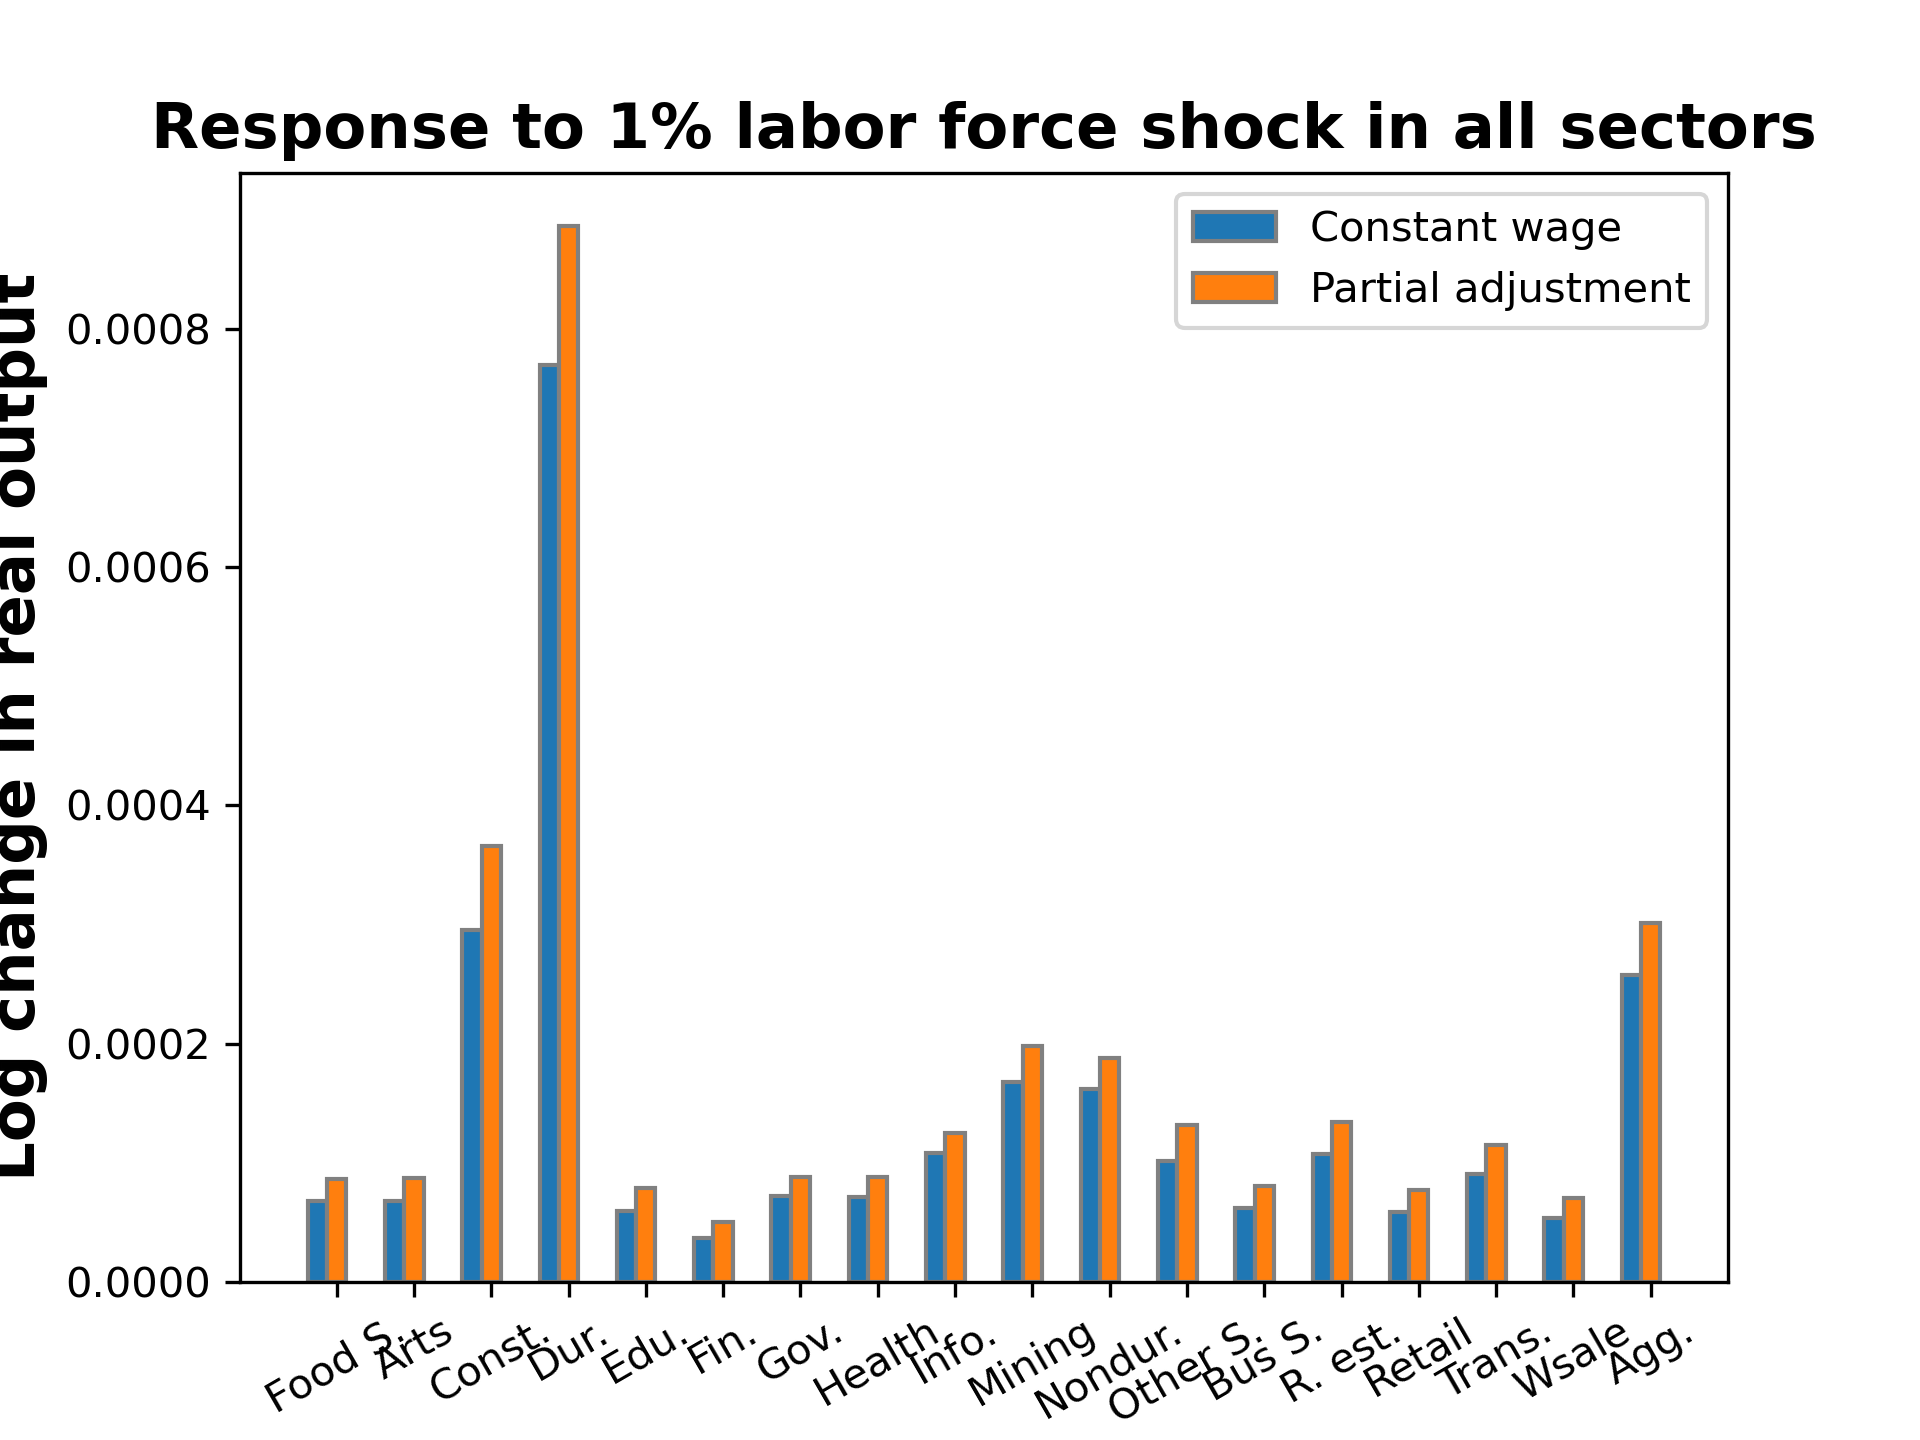
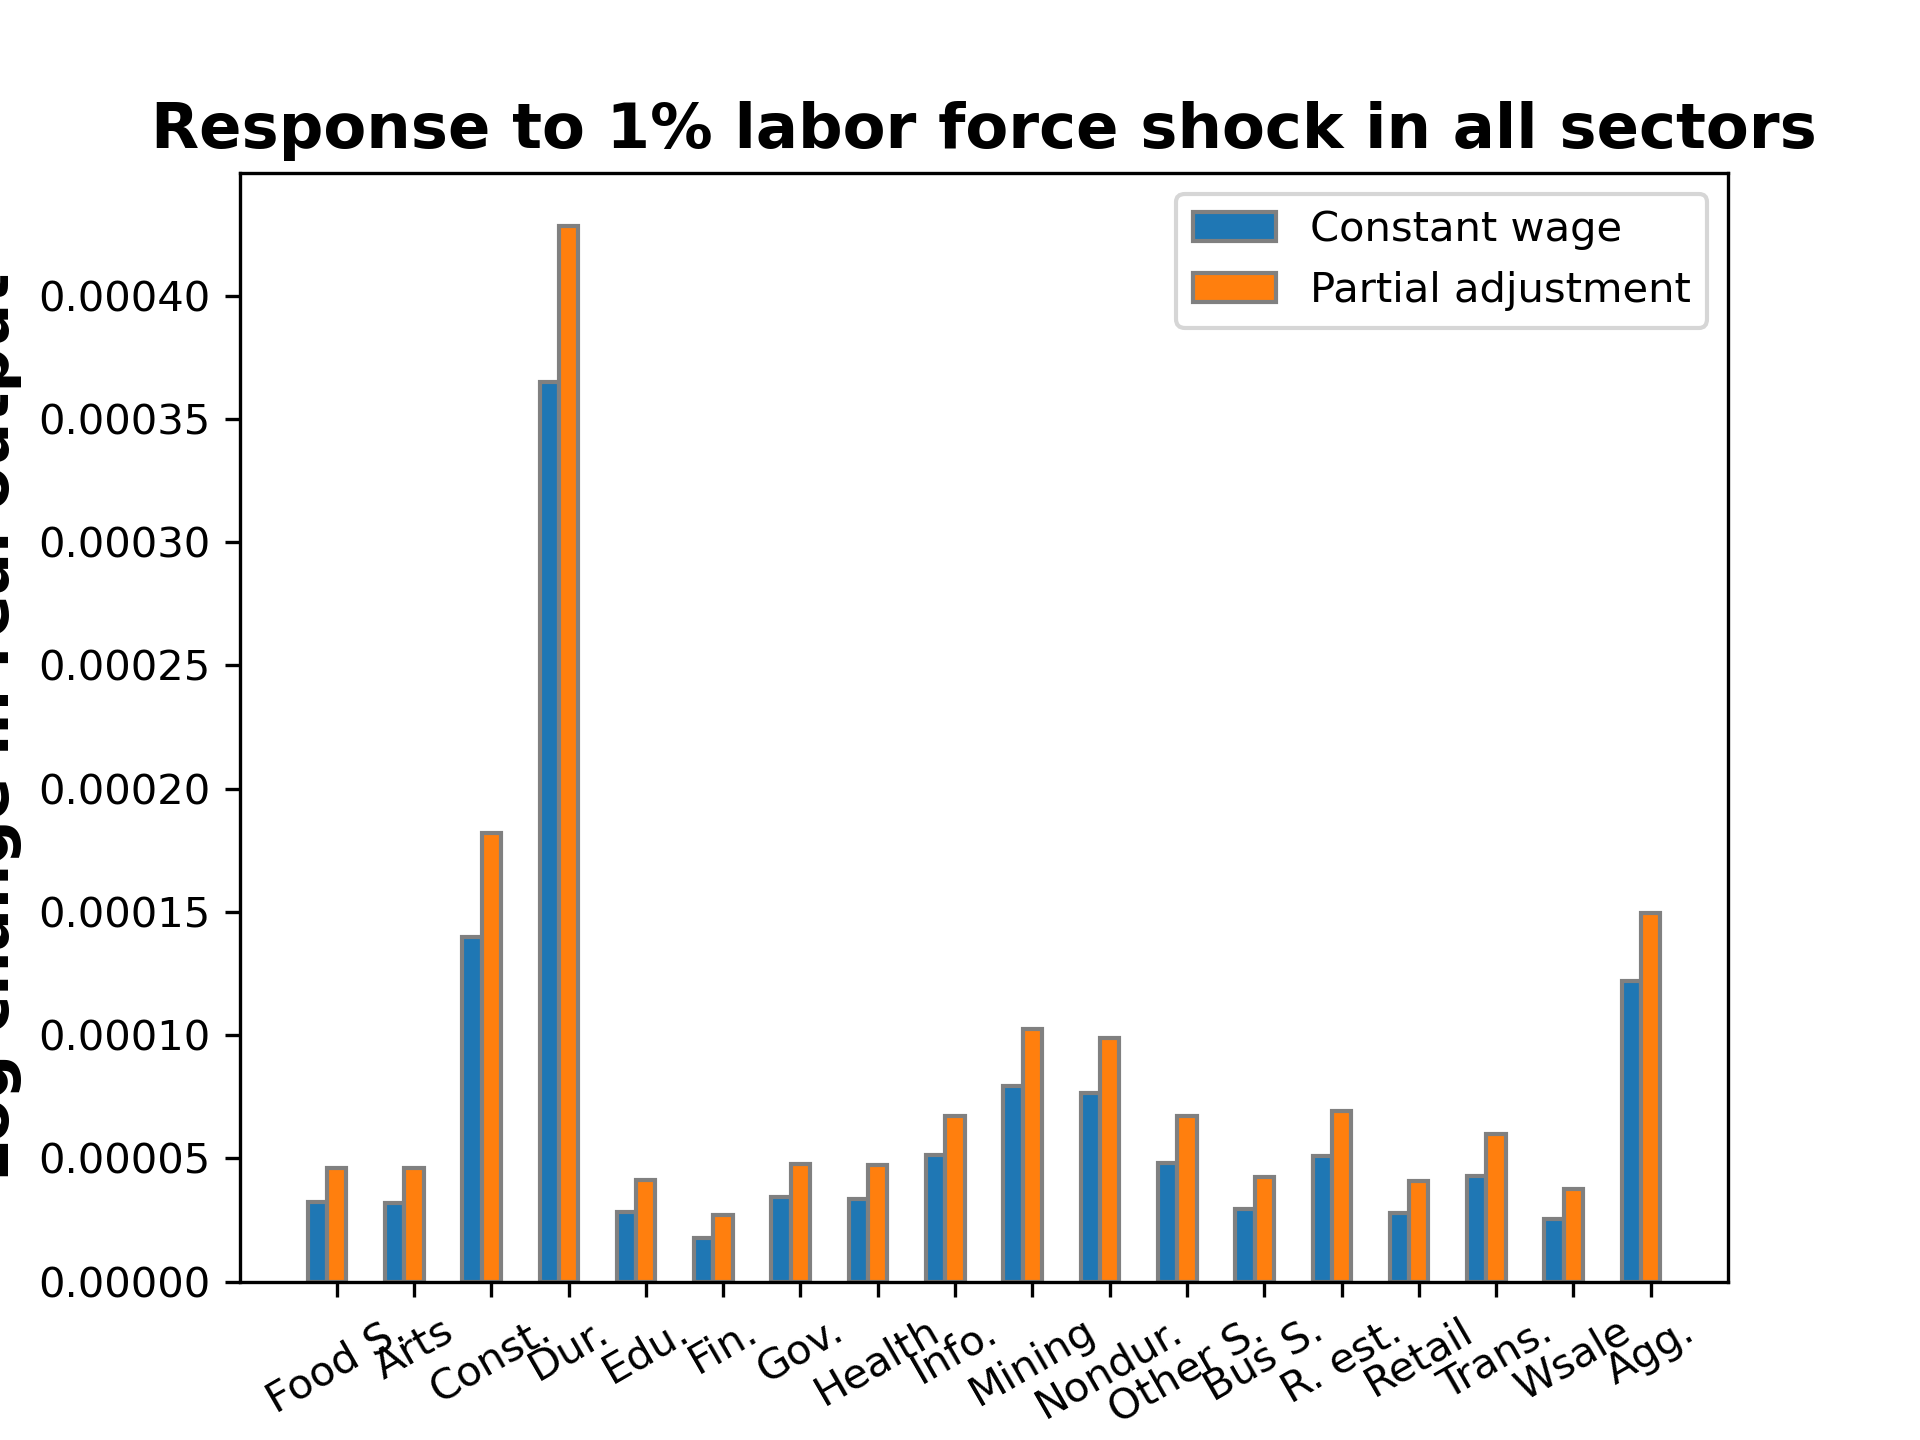
change to calib

diff --git a/new_code/main.py b/new_code/main.py
@@ -55,7 +55,7 @@ if __name__ == "__main__":
     elasticity_Qtheta = gen_elasticity_Qtheta_CD(theta,eta)
     curlyF = gen_curlyF_CD(theta,eta,phi,s)
     
-    r = r_calib(theta,eta,phi,s,L,0.032)
+    r = r_calib(theta,eta,phi,s,L,0.015) #Target percent of labor force employed in recruiting
     tau = gen_tau_CD(theta,eta,phi,s,r*np.ones_like(theta))
 
     #### Setting up production network ####
